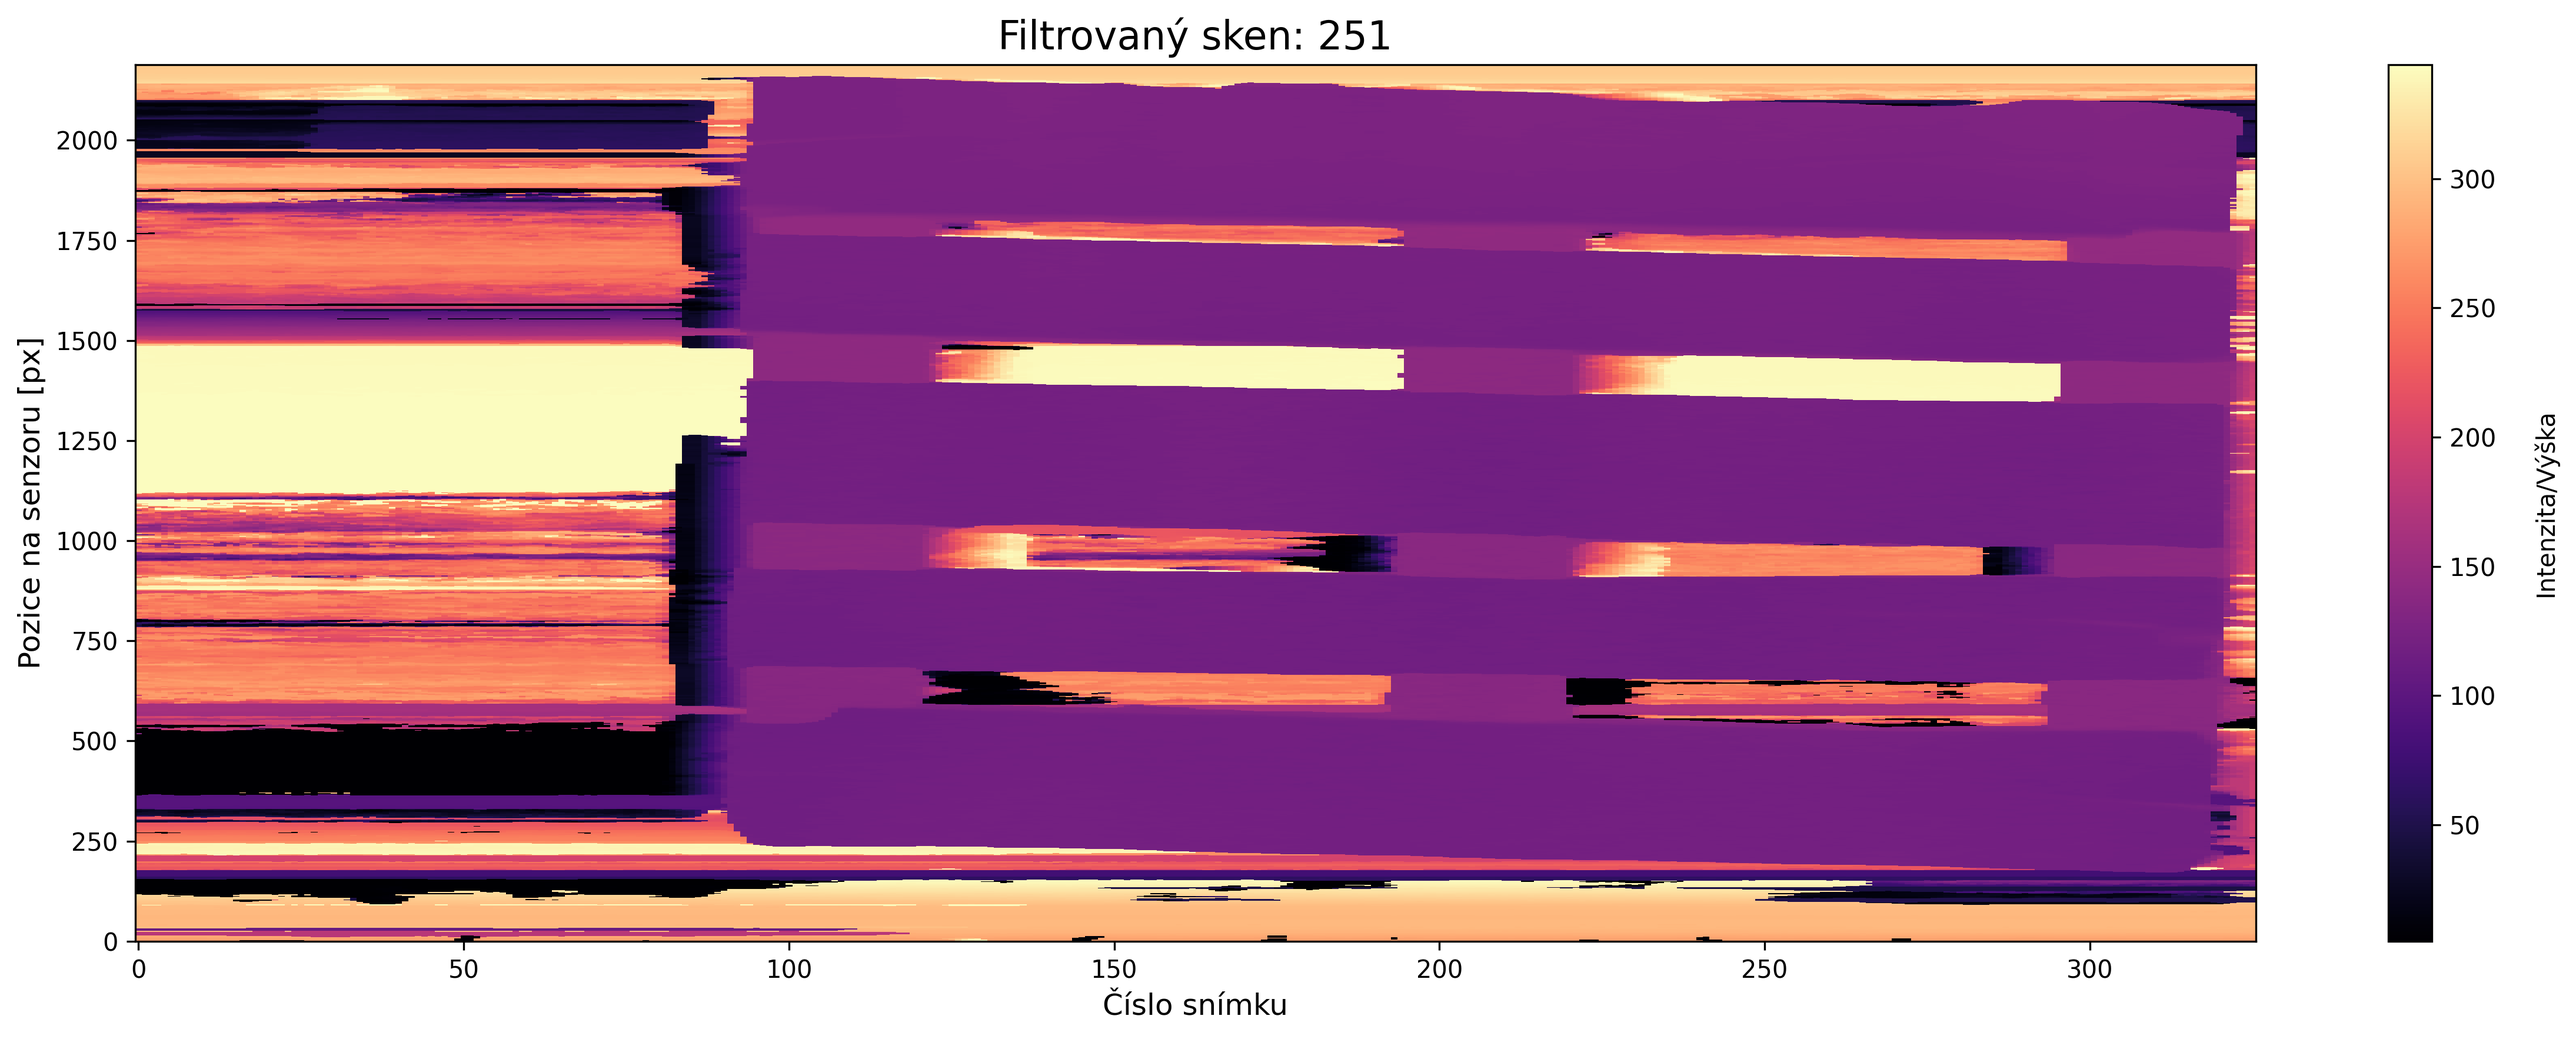
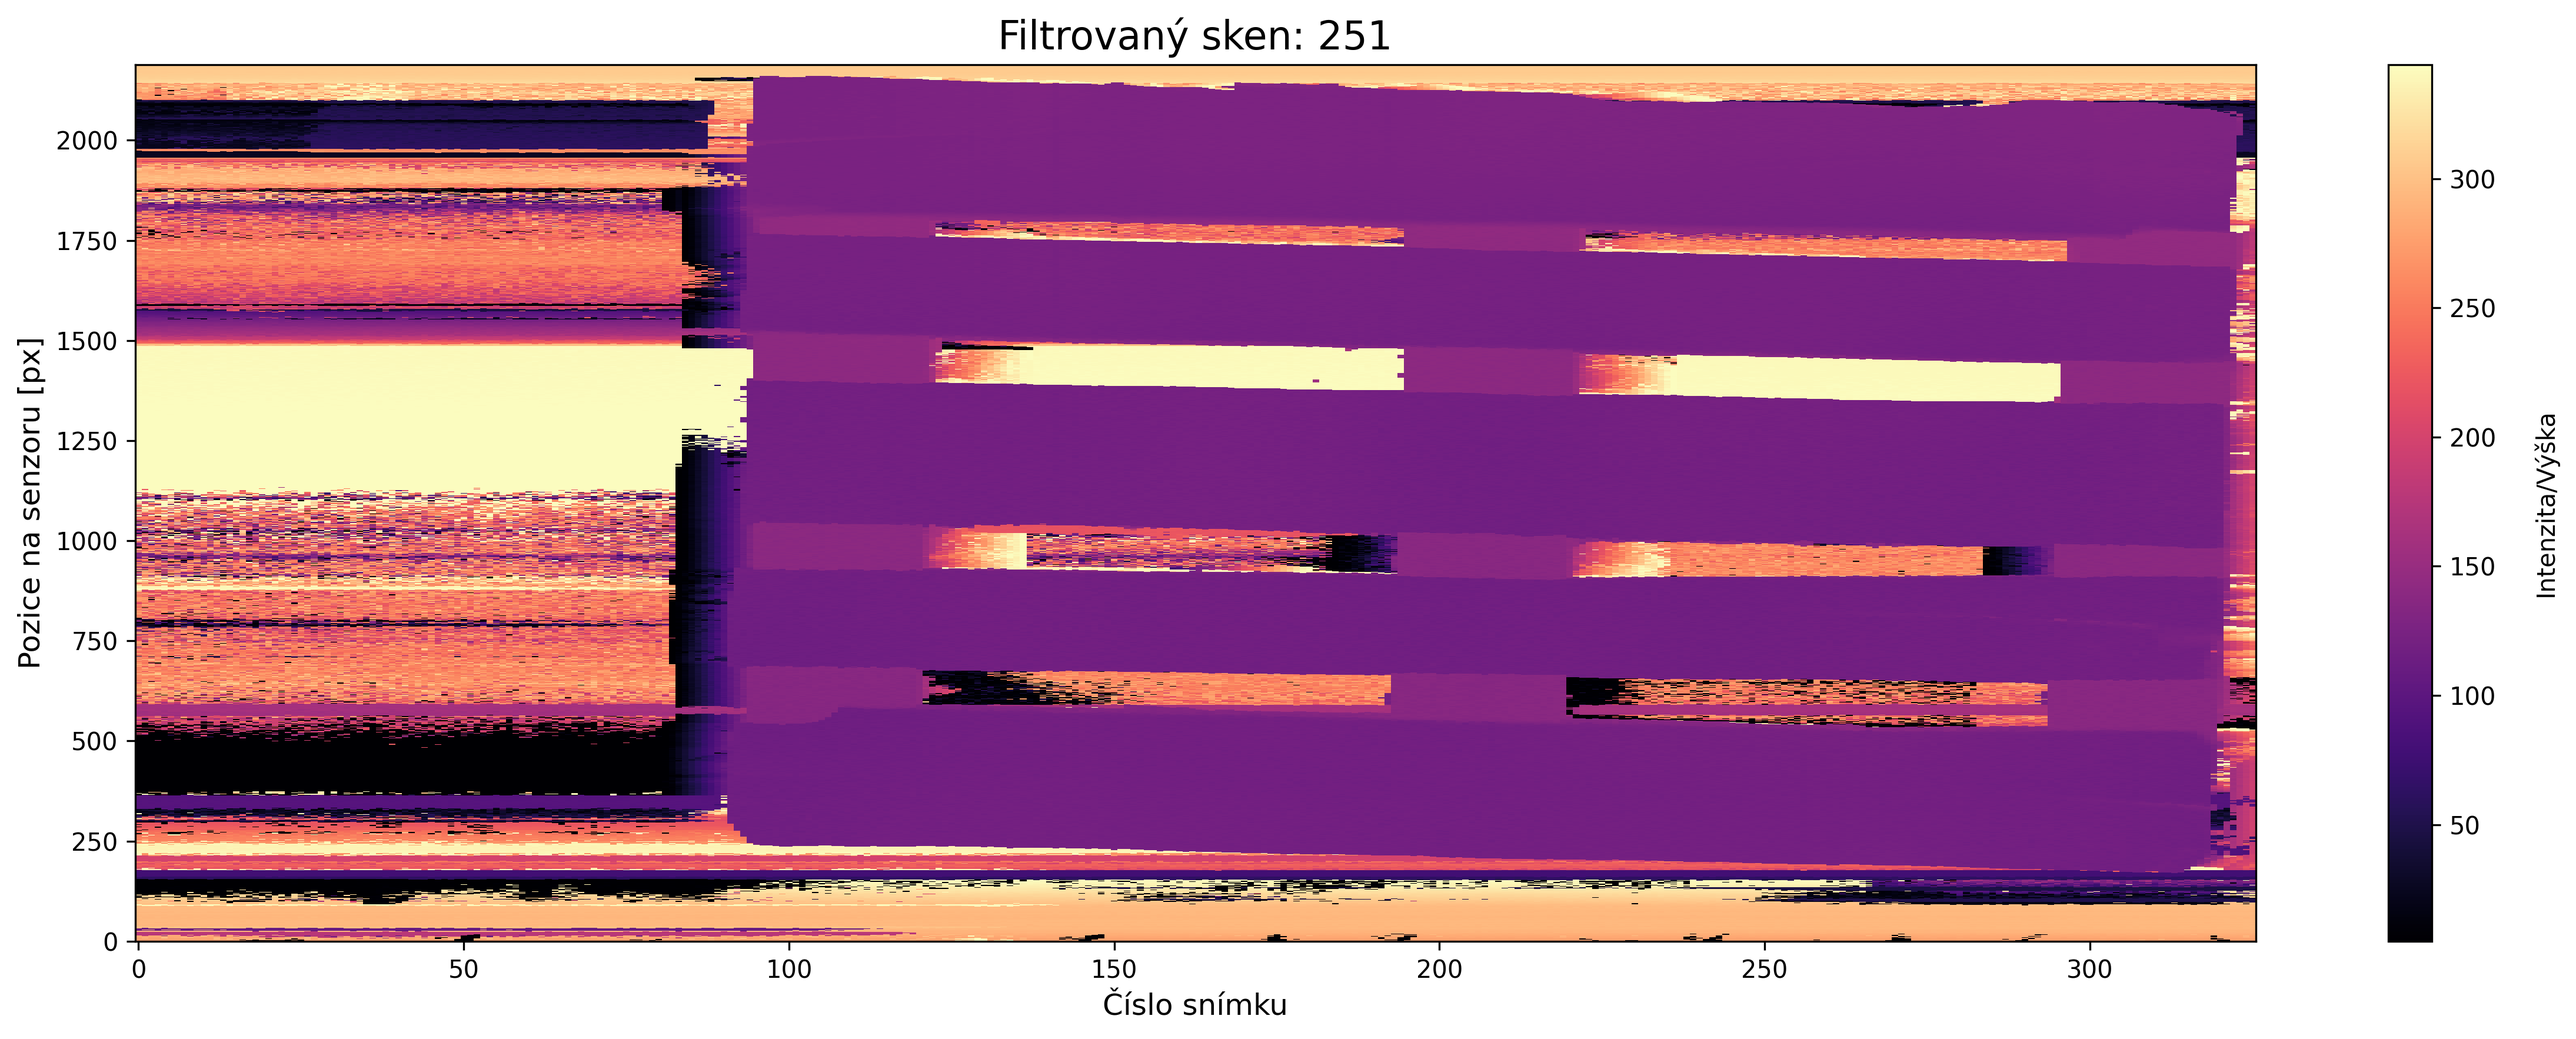
Initial Commit

diff --git a/Testy na realnych snimcich/Linovy laser/Reseni.py b/Testy na realnych snimcich/Linovy laser/Reseni.py
@@ -1,74 +1,49 @@
-# Vycházím ze skriptu pro zpracování laseru ze simulace
 import numpy as np
 import matplotlib.pyplot as plt
 import os
 import cv2
+from typing import List
 
-# Tahání dat
-outAdr = './OUT/'
-N = 'b351'  # Název souboru ("251", "b351")
-input_file = os.path.join(outAdr, f'kamera_{N}.npy')
-
-# Parametry detekce
-LASER_AXIS = 0  # 0 = Laser je vertikálně, 1 = Laser je horizontálně
-THRESHOLD_VALUE = 20  # Minimální jas pro detekci (odfiltrování šumu)
-PEAK_WINDOW = 10  # Poloměr okna pro výpočet těžiště
+# Konfigurace
+OUT_ADR = './OUT/'
+FILE_NAME = '251'
+INPUT_FILE = os.path.join(OUT_ADR, f'kamera_{FILE_NAME}.npy')
 
 
-def get_laser_center_subpixel(img_slice):
-
+def get_laser_center_subpixel(img_slice: np.ndarray, threshold: int = 25, peak_window: int = 10) -> float:
     img_slice = img_slice.astype(float)
     max_idx = int(np.argmax(img_slice))
     max_val = img_slice[max_idx]
 
-    if max_val < THRESHOLD_VALUE:
+    if max_val < threshold:
         return np.nan
 
-    start = max(0, max_idx - PEAK_WINDOW)
-    end = min(len(img_slice), max_idx + PEAK_WINDOW + 1)
+    start = max(0, max_idx - peak_window)
+    end = min(len(img_slice), max_idx + peak_window + 1)
 
     window_vals = img_slice[start:end]
     window_idxs = np.arange(start, end)
-
     total = np.sum(window_vals)
-    if total == 0:
-        return np.nan
 
-    # Vážený průměr (těžiště)
-    return np.sum(window_idxs * window_vals) / total
+    return np.sum(window_idxs * window_vals) / total if total != 0 else np.nan
 
 
-def main():
-    print(f"START")
-    print(f"Hledám soubor: {input_file}")
-
-    # Kontrola a načtení souboru
-    if not os.path.exists(input_file):
-        print(f"CHYBA: Soubor {input_file} neexistuje!")
-        return
-
-    snimky_3d_loaded = np.load(input_file)
-    n_snimku = len(snimky_3d_loaded)
-    print(f"Načteno {n_snimku} snímků. Zahajuji zpracování...")
-
+def process_laser_scan(snimky_3d: np.ndarray, laser_axis: int = 0, enable_median: bool = True) -> np.ndarray:
+    n_snimku = len(snimky_3d)
     depth_map = []
 
-    # Zpracování snímků
     for i in range(n_snimku):
-        img = snimky_3d_loaded[i]
+        img = snimky_3d[i]
+        laser_signal = cv2.subtract(img[:, :, 2], img[:, :, 1]) if img.ndim == 3 else img
 
-        if img.ndim == 3:
-
-            laser_signal = cv2.subtract(img[:, :, 2], img[:, :, 1])
-        else:
-            # Obraz už je jasová mapa !
-            laser_signal = img
+        # Aplikace mediánu
+        if enable_median:
+            laser_signal = cv2.medianBlur(laser_signal, 3)  # Okno 3x3
 
         h, w = laser_signal.shape
         profile = []
 
-        # Procházení řezů obrazem
-        if LASER_AXIS == 0:
+        if laser_axis == 0:
             for y in range(h):
                 profile.append(get_laser_center_subpixel(laser_signal[y, :]))
         else:
@@ -76,49 +51,35 @@ def main():
                 profile.append(get_laser_center_subpixel(laser_signal[:, x]))
 
         depth_map.append(profile)
+        if i % 50 == 0: print(f"Zpracováno {i} / {n_snimku}")
 
-        # Výpis průběhu zpracování snímků
-        if i % 50 == 0:
-            print(f"Zpracováno {i} / {n_snimku}")
+    return np.nan_to_num(np.array(depth_map).T)
 
-    scan_result = np.array(depth_map).T
-    print("Výpočet hotov. Připravuji graf...")
+
+def main():
+    if not os.path.exists(INPUT_FILE):
+        print(f"CHYBA: Soubor {INPUT_FILE} neexistuje!")
+        return
+
+    snimky_3d_loaded = np.load(INPUT_FILE)
+    print(f"Načteno {len(snimky_3d_loaded)} snímků. Zahajuji zpracování...")
 
     # Vizualizace
+    viz_data = process_laser_scan(snimky_3d_loaded)
 
-    # Výchozí rozměry okna pro vizualizaci
-    fig_width = 16
-    fig_height = 6
-
-    if N == 'b351':
-        fig_height = 3
-
-    elif N == 'b251':
-        fig_height = 6
-
-    plt.figure(figsize=(fig_width, fig_height))
-
-    viz_data = np.nan_to_num(scan_result)
-
-    # Vykreslení
+    fig_height = 3 if FILE_NAME == 'b351' else 6
+    plt.figure(figsize=(16, fig_height))
     img_plot = plt.imshow(viz_data, cmap='magma', interpolation='nearest', aspect='auto', origin='lower')
 
-    plt.title(f"Výsledný sken: {N}", fontsize=16)
+    plt.title(f"Filtrovaný sken: {FILE_NAME}", fontsize=16)
     plt.ylabel("Pozice na senzoru [px]", fontsize=12)
     plt.xlabel("Číslo snímku", fontsize=12)
-
-    # Přidání colorbaru
-    cbar = plt.colorbar(img_plot)
-    cbar.set_label('Výška', rotation=90, labelpad=15)
-
+    plt.colorbar(img_plot).set_label('Intenzita/Výška', rotation=90, labelpad=15)
     plt.tight_layout()
 
-    # Uložení do souboru
-    output_filename = f"vysledny_sken_{N}.png"
+    output_filename = f"vysledny_sken_{FILE_NAME}_filtrovany.png"
     plt.savefig(output_filename, dpi=300, bbox_inches='tight')
-    print(f"--> Obrázek uložen jako: {output_filename}")
-
-    # Zobrazení
+    print(f"--> Uloženo: {output_filename}")
     plt.show()
 
 
